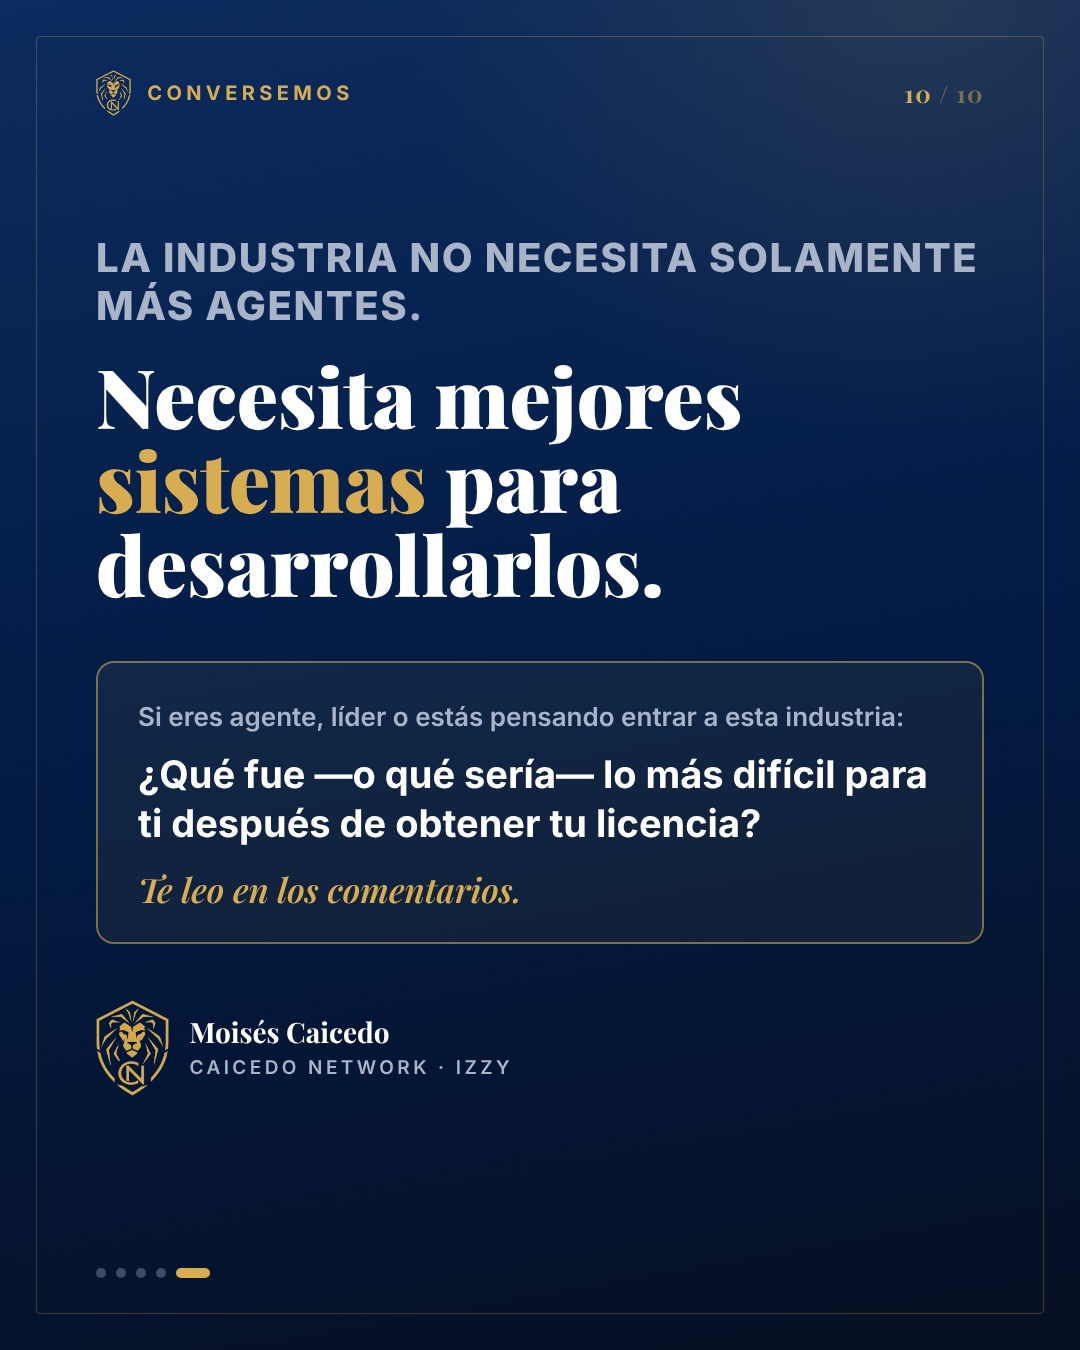
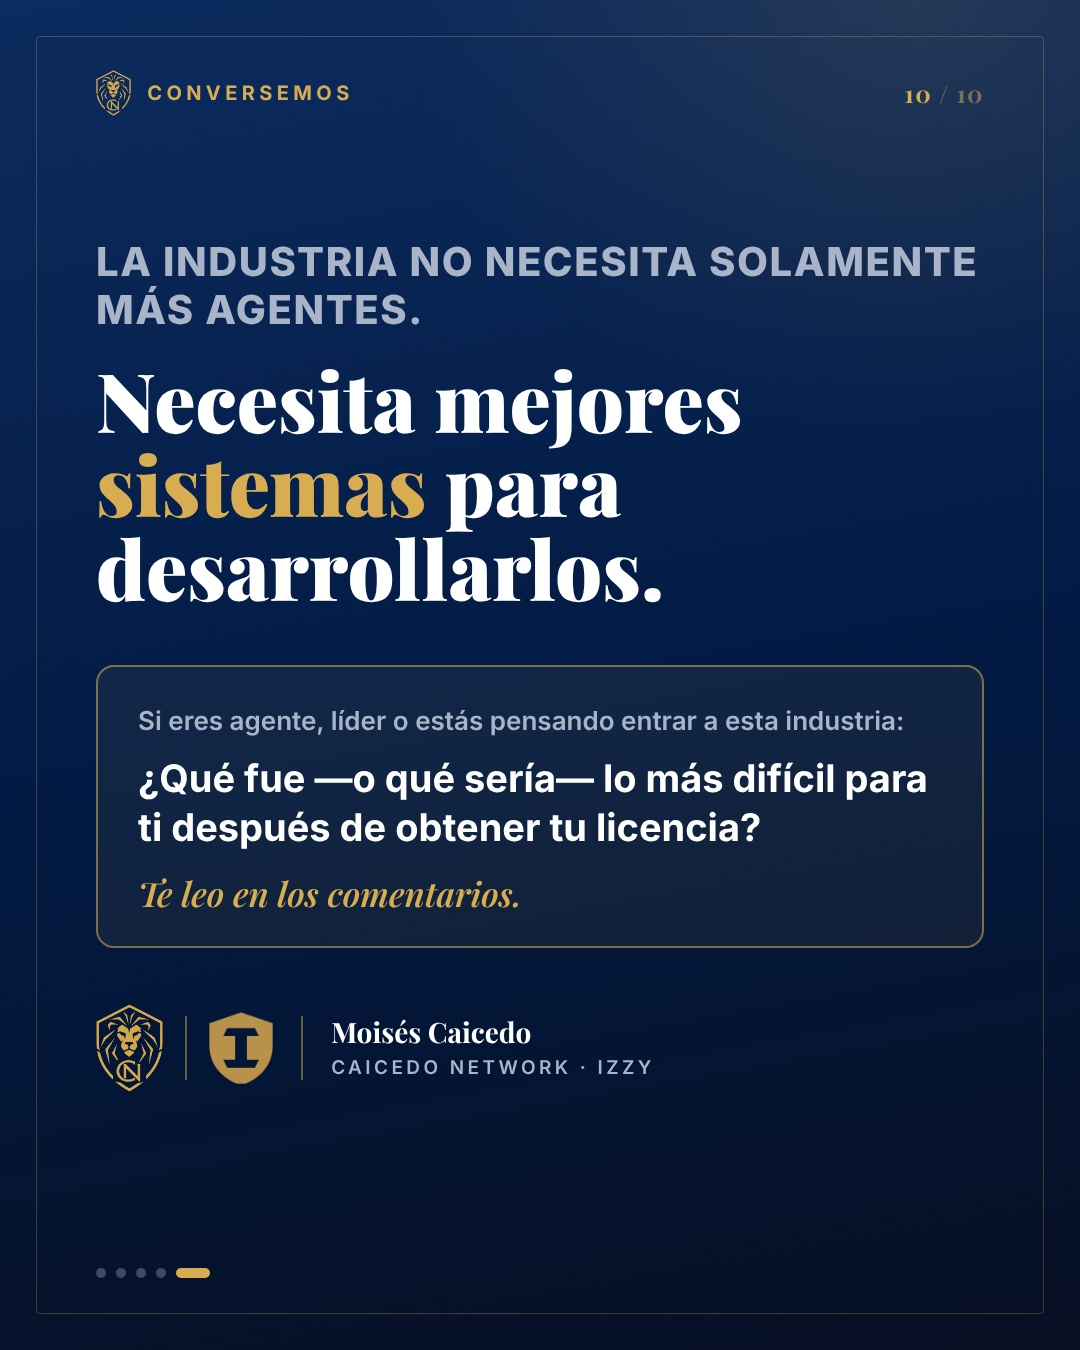
Carousel: add IZZY shield to slide 10 signature
Claude-Session: https://claude.ai/code/session_01NSoqenSFphvWtWUo7mfwVf

diff --git a/social/carrusel-licencia-y-ahora-que/slides.html b/social/carrusel-licencia-y-ahora-que/slides.html
@@ -128,8 +128,10 @@ body{background:#222;font-family:var(--sans);display:flex;flex-direction:column;
 .cta .who{font:600 26px/1.35 var(--sans);color:var(--muted)}
 .cta .q{font:700 38px/1.28 var(--sans);color:var(--white)}
 .cta .read{font:italic 700 34px/1 var(--serif);color:var(--gold)}
-.sig{display:flex;align-items:center;gap:20px}
-.sig img{height:96px;width:auto;display:block}
+.sig{display:flex;align-items:center;gap:28px}
+.sig .logos{display:flex;align-items:center;gap:22px}
+.sig img{height:88px;width:auto;display:block}
+.sig .sep{width:2px;height:64px;background:rgba(216,173,82,.45)}
 .sig .n{font:700 28px/1.2 var(--serif)}
 .sig .o{font:600 19px/1.2 var(--sans);letter-spacing:.18em;text-transform:uppercase;color:var(--muted)}
 </style>
@@ -309,7 +311,7 @@ body{background:#222;font-family:var(--sans);display:flex;flex-direction:column;
       <p class="q mt16">¿Qué fue —o qué sería— lo más difícil para ti después de obtener tu licencia?</p>
       <p class="read mt24">Te leo en los comentarios.</p>
     </div>
-    <div class="sig mt56"><img src="assets/caicedo-shield.png" alt="Caicedo Network"><div><p class="n">Moisés Caicedo</p><p class="o mt8">Caicedo Network · IZZY</p></div></div>
+    <div class="sig mt56"><div class="logos"><img src="assets/caicedo-shield.png" alt="Caicedo Network"><span class="sep"></span><img src="assets/izzy-shield.png" alt="IZZY" style="height:72px"></div><span class="sep"></span><div><p class="n">Moisés Caicedo</p><p class="o mt8">Caicedo Network · IZZY</p></div></div>
   </div>
   <div class="ftr"><div class="dots"><i></i><i></i><i></i><i></i><i class="on"></i></div><span></span></div>
 </section>
